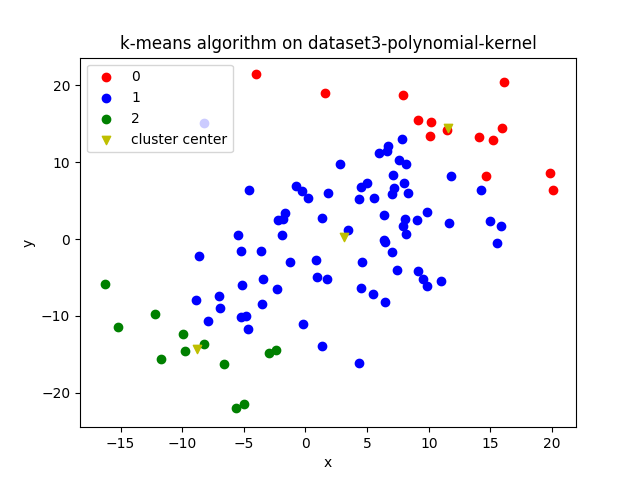
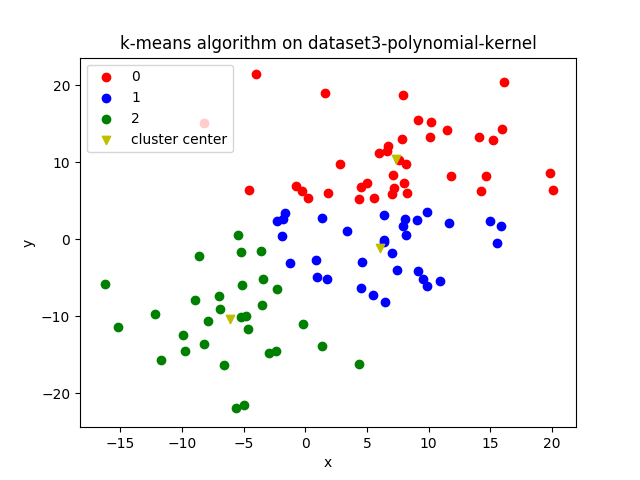
RBF predicting optimal clusters, polynomial slightly improved

diff --git a/hw4/problem2.py b/hw4/problem2.py
@@ -3,7 +3,6 @@ import math
 import numpy as np
 import matplotlib.pyplot as plt
 from sklearn.datasets import make_circles, make_moons, make_blobs
-from sklearn.metrics.pairwise import linear_kernel, polynomial_kernel, rbf_kernel
 import pickle
 
 def euclidean(p1,p2):
@@ -199,20 +198,30 @@ def kernel(data, labels, k, kernel):
 		clusters.append([random(),random()])
 	print("Finished initializing cluster centers")
 
-	# Repeat till no more changes occur
+	# Repeat until no more changes occur
 	iteration = 1
 	labeled_data = [ [] for i in range(k) ]
 	for index, label in enumerate(labels):
 		labeled_data[label].append(index)
 
 	# Gram matrix for kernel
-	kernel_vals = None
+	kernel_vals = np.zeros((len(data),len(data)))
 	if kernel is 'lin':
-		kernel_vals = linear_kernel(data,data)
+		for row,x in enumerate(data):
+			for col,y in enumerate(data):
+				kernel_vals[row,col] = np.dot(x,y)
 	if kernel is 'poly':
-		kernel_vals = polynomial_kernel(data,data)
+		gamma = 0.001
+		c_0 = -2
+		d = 3
+		for row,x in enumerate(data):
+			for col,y in enumerate(data):
+				kernel_vals[row,col] = math.pow(gamma*np.dot(x,y) + c_0, d)
 	if kernel is 'rbf':
-		kernel_vals = rbf_kernel(data,data)
+		gamma = 5
+		for row,x in enumerate(data):
+			for col,y in enumerate(data):
+				kernel_vals[row,col] = np.exp(-gamma* np.dot(x-y,x-y))
 		
 	# Repeat till no more changes occur
 	while True:
